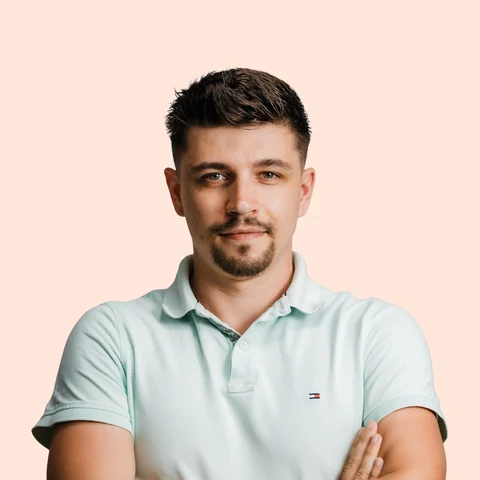
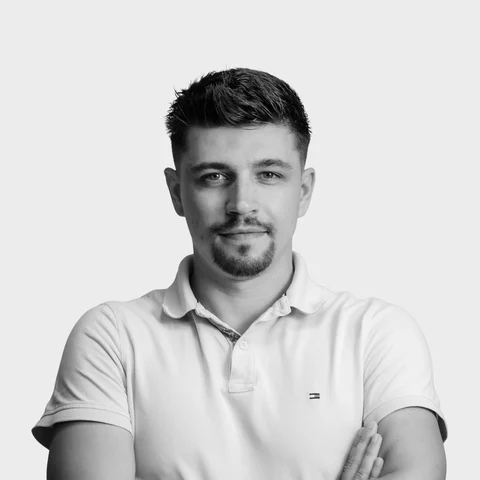
fix: blue Mission heading, Alin's headshot in black and white, blue ticks on the EU AI Act panels

diff --git a/src/app/[locale]/trust/page.tsx b/src/app/[locale]/trust/page.tsx
@@ -1,5 +1,5 @@
 import Image from "next/image";
-import { ArrowRight, MapPin, Shield } from "lucide-react";
+import { ArrowRight, Check, MapPin, Shield } from "lucide-react";
 import { getTranslations, setRequestLocale } from "next-intl/server";
 import { Link } from "@/i18n/navigation";
 import {
@@ -8,7 +8,6 @@ import {
   CARD_HOVER,
   CtaBand,
   FaqSection,
-  FeatureCards,
   PageHero,
   SECTION_LILAC,
   SectionHead,
@@ -123,16 +122,25 @@ export default async function TrustPage({ params }: { params: Promise<{ locale: 
       {/* Sections alternate: white, lilac, white, lilac. */}
       <BadgeRow heading={t("badges.heading")} items={badgeItems} />
 
-      <FeatureCards
-        heading={t("euAiAct.heading")}
-        intro={t("euAiAct.intro")}
-        columns={3}
-        items={euAiActKeys.map((key) => ({
-          title: t(`euAiAct.features.${key}.requirement`),
-          text: t(`euAiAct.features.${key}.description`),
-        }))}
-        lilac
-      />
+      {/* EU AI Act: the live page's panels, each with a blue tick. */}
+      <section className={SECTION_LILAC}>
+        <div className="mx-auto max-w-7xl">
+          <SectionHead heading={t("euAiAct.heading")} lede={t("euAiAct.intro")} />
+          <ul className="grid grid-cols-1 gap-[29px] md:grid-cols-2 lg:grid-cols-3">
+            {euAiActKeys.map((key) => (
+              <li key={key} className={cn(CARD, "flex h-full flex-col gap-3 p-8")}>
+                <div className="flex items-start gap-3">
+                  <Check strokeWidth={2.5} className="mt-1 h-5 w-5 shrink-0 text-accent" aria-hidden />
+                  <h3 className="font-display text-[20px] font-semibold leading-[1.3] tracking-[0.01em] text-strong">
+                    {t(`euAiAct.features.${key}.requirement`)}
+                  </h3>
+                </div>
+                <p className="pl-8 text-[15px] leading-[1.55] text-muted">{t(`euAiAct.features.${key}.description`)}</p>
+              </li>
+            ))}
+          </ul>
+        </div>
+      </section>
 
       <SplitText
         heading={t("humanInLoop.heading")}

diff --git a/src/app/[locale]/about/page.tsx b/src/app/[locale]/about/page.tsx
@@ -105,7 +105,7 @@ export default async function AboutPage({ params }: { params: Promise<{ locale: 
       <section className={SECTION}>
         <div className="mx-auto max-w-7xl">
           <div className="mx-auto max-w-[70ch] text-center">
-            <h2 className="font-display text-[30px] font-bold leading-[1.15] text-strong md:text-[40px]">{t("mission.label")}</h2>
+            <h2 className="font-display text-[30px] font-bold leading-[1.15] text-accent md:text-[40px]">{t("mission.label")}</h2>
             <p className="mt-6 font-display text-[24px] font-semibold leading-[1.35] text-strong text-balance md:text-[30px]">
               {t("mission.text")}
             </p>
